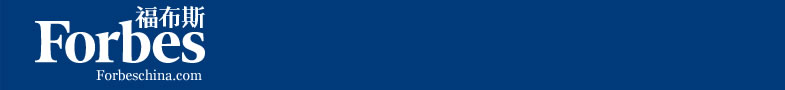
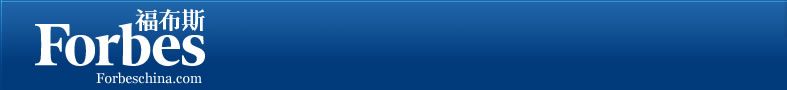
robbin

diff --git a/css/index.css b/css/index.css
@@ -1,8 +1,9 @@
 body {font-size:12px;  font-family:宋体; font-size:12px; color:#000;  margin:0 auto; padding:0;}
 
 #ibody{width:1000px; margin:0 auto;}
-#banner{width:778px; height:90px; float:left; display:inline;}
-#top_login{width:215px; height:187px; background:url('/images/index/top_right_bg.jpg') repeat-x; float:right; display:inline;}
+#banner{width:780px; height:92px; border:1px solid #cccccc; margin-top:25px; float:left; display:inline;}
+#banner img{width:778px; height:90px; margin:1px;}
+#top_login{width:215px; height:187px; margin-top:25px; background:url('/images/index/top_right_bg.jpg') repeat-x; float:right; display:inline;}
 #top_login .login_title{width:213px; height:22px; margin-top:1px; margin-left:1px; line-height:22px; background:url('/images/index/top_login_bg.jpg') repeat-x; float:left; display:inline;}
 #top_login .login_title a{margin-left:10px; color:#ffffff; text-decoration:none;}
 #top_login #jieshao_title{width:213px; height:22px; margin-left:1px; background:url('/images/index/t_r_login_bg.gif') no-repeat; float:left; display:inline;}
@@ -18,7 +19,7 @@ body {font-size:12px;  font-family:宋体; font-size:12px; color:#000;  margin:0
 #top_login #ccenter #context #content a{color:#666666; text-decoration:none;}
 #top_login #ccenter #context #ck{width:122px; height:23px; margin-top:2px; float:left; display:inline;}
 #top_login #ccenter #context #ck button{width:122px; height:23px; background:url('/images/index/btn_ck.jpg') no-repeat; cursor:pointer; text-align:center; border:0px;}
-#itop{width:785px; height:90px; margin-top:7px; background:url('/images/index/top_bg.jpg') no-repeat; float:left; display:inline;}
+#itop{width:785px; height:90px; margin-top:3px; background:url('/images/index/top_bg.jpg') no-repeat; float:left; display:inline;}
 #itop .iinput{width:160px; height:16px; border:1px solid #99CCFF; margin-top:41px; float:left; display:inline;}
 #itop .search{width:53px; height:22px; margin-top:41px; border:0px; color:#ffffff; line-height:22px; background:url('/images/index/search_bg.jpg') no-repeat; float:left; display:inline;}
 #navigation{width:1000px; height:40px; margin-top:1px; background:#3366CC; float:left; display:inline;}
@@ -34,10 +35,10 @@ body {font-size:12px;  font-family:宋体; font-size:12px; color:#000;  margin:0
 #navigation .content #picshehua{width:31px; height:15px; cursor:pointer; background-image:url(/images/index/shehua.png)!important; background-image:none; filter: progid:DXImageTransform.Microsoft.AlphaImageLoader(enabled=true, sizingMethod=image, src="/images/index/shehua.png"); margin:0 auto; margin-top:11px;}
 #navigation .content #piczhuanlan{width:31px; height:15px; cursor:pointer; background-image:url(/images/index/zhuanlan.png)!important; background-image:none; filter: progid:DXImageTransform.Microsoft.AlphaImageLoader(enabled=true, sizingMethod=image, src="/images/index/zhuanlan.png"); margin:0 auto; margin-top:11px;}
 #navigation .vertical{width:2px; height:25px; margin-top:7px; background:url('/images/index/vertical.jpg'); float:left; display:inline;}
-#navigation2{width:1000px; height:35px; background:#C1E1EE; float:left; display:inline;}
-#navigation2 .content{width:690px; height:35px; line-height:35px; text-align:center; float:left; display:inline;}
+#navigation2{width:1000px; height:27px; background:#C1E1EE; float:left; display:inline;}
+#navigation2 .content{width:690px; height:27px; line-height:27px; text-align:center; float:left; display:inline;}
 #navigation2 .content a{color:#000000; text-decoration:underline;}
-#navigation #hyzq{width:205px; height:29px; margin-top:5px; margin-right:10px; line-height:29px; background:url('/images/index/hyzq.jpg') repeat-x; background-position:bottom; float:right; display:inline;}
+#navigation #hyzq{width:205px; height:29px; margin-top:5px; margin-right:10px; line-height:29px; background:#6699cc; background-position:bottom; float:right; display:inline;}
 #navigation #hyzq #zq{width:29px; height:27px; margin-left:5px; background-image:url(/images/index/hyzq.png)!important; background-image:none; filter: progid:DXImageTransform.Microsoft.AlphaImageLoader(enabled=true, sizingMethod=image, src="/images/index/hyzq.png"); float:left; display:inline;}
 #navigation #hyzq #zqhy{width:52px; height:12px; margin-top:12px; margin-left:5px; cursor:pointer; background-image:url(/images/index/hyzq_a.png)!important; background-image:none; filter: progid:DXImageTransform.Microsoft.AlphaImageLoader(enabled=true, sizingMethod=image, src="/images/index/hyzq_a.png"); float:left; display:inline;}
 #navigation #hyzq #zs{width:36px; height:28px; margin-left:5px; background-image:url(/images/index/zzzs.png)!important; background-image:none; filter: progid:DXImageTransform.Microsoft.AlphaImageLoader(enabled=true, sizingMethod=image, src="/images/index/zzzs.png"); float:left; display:inline;}
@@ -48,17 +49,17 @@ body {font-size:12px;  font-family:宋体; font-size:12px; color:#000;  margin:0
 #t_l_t_t_l{float:left; display:inline;}
 #t_l_t_t_l img{margin:0px;}
 #t_l_t_t_r{width:361px; height:200px; margin-top:1px; float:right; display:inline;}
-#t_l_t_t_r #title{width:351px; height:24px; margin-top:20px; line-height:24px; font-family:黑体; overflow:hidden; float:left; display:inline;}
-#t_l_t_t_r #title a{color:#003399; font-weight:bold; font-size:20px; text-decoration:underline;}
-#t_l_t_t_r #content{width:351px; height:40px; margin-top:10px; margin-bottom:20px; line-height:20px; overflow:hidden; float:left; display:inline;}
-#t_l_t_t_r #content a{color:#000000; text-decoration:none;}
-#t_l_t_t_r .cl{width:291px; height:20px; line-height:20px; overflow:hidden; float:left; display:inline;}
+#t_l_t_t_r #title{width:351px; height:28px; margin-top:20px; line-height:28px; font-family:黑体; overflow:hidden; float:left; display:inline;}
+#t_l_t_t_r #title a{color:#003399; font-weight:bold; font-size:24px; text-decoration:underline;}
+#t_l_t_t_r #content{width:351px; height:40px; margin-top:10px; margin-bottom:10px; line-height:20px; overflow:hidden; float:left; display:inline;}
+#t_l_t_t_r #content a{color:#000000; font-size:14px; text-decoration:none;}
+#t_l_t_t_r .cl{width:291px; height:18px; line-height:18px; overflow:hidden; float:left; display:inline;}
 #t_l_t_t_r .cl a{color:#003399; text-decoration:none;}
 #t_l_t_t_r #more{width:60px; height:20px; float:right; display:inline;}
 #t_l_t_t_r #more a{color:#003399;}
-#t_l_t_t_r #btn{width:351px; height:14px; margin-top:5px; margin-right:10px; text-align:right; float:right; display:inline;}
-#t_l_t_l{width:288px;; float:left; display:inline;}
-#t_l_t_l #title{width:270px;; height:20px; margin-top:5px; margin-left:18px; line-height:20px; float:left; display:inline;}
+#t_l_t_t_r #btn{width:351px; height:14px; margin-top:10px; margin-right:10px; text-align:right; float:right; display:inline;}
+#t_l_t_l{width:288px; float:left; display:inline;}
+#t_l_t_l #title{width:270px;; height:20px; margin-top:10px; margin-left:18px; line-height:20px; float:left; display:inline;}
 #t_l_t_l #title a{color:#003399; font-size:14px; font-weight:bold; text-decoration:none;}
 #t_l_t_l a{color:#2555a7; text-decoration:none;}
 #t_l_t_l #content1{width:270px; height:16px; margin-top:10px; margin-left:16px; line-height:16px; overflow:hidden; float:left; display:inline;}
@@ -66,11 +67,11 @@ body {font-size:12px;  font-family:宋体; font-size:12px; color:#000;  margin:0
 #t_l_t_l #content3{width:210px; height:16px; margin-top:10px; margin-left:16px; line-height:16px; overflow:hidden; float:left; display:inline;}
 #t_l_t_l #coffee{width:50px; height:34px; background-image:url(/images/index/coffee.png)!important; background-image:none; filter: progid:DXImageTransform.Microsoft.AlphaImageLoader(enabled=true, sizingMethod=image, src="/images/index/coffee.png"); float:right; display:inline;}
 #t_l_t_r{width:351px; float:right; display:inline;}
-#t_l_t_r #left{width:5px; height:99px; margin-left:15px; float:left; display:inline;}
+#t_l_t_r #left{width:5px; height:99px; margin-left:10px; float:left; display:inline;}
 #t_l_t_r #left img{margin-top:45px;}
 #t_l_t_r #right{width:5px; height:99px; margin-right:15px; float:right; display:inline;}
 #t_l_t_r #right img{margin-top:45px;}
-#t_l_t_r .content{width:74px; height:99px; margin-top:10px; margin-left:15px; margin-right:10px; line-height:16px; float:left; display:inline;}
+#t_l_t_r .content{width:74px; height:99px; margin-top:15px; margin-left:15px; margin-right:10px; line-height:16px; float:left; display:inline;}
 #t_l_t_r .content .pic{width:72px; height:72px; border:1px solid #CCCCCC; float:left; display:inline;}
 #t_l_t_r .content .pic img{width:70px; height:70px; margin:1px;}
 #t_l_t_r .content .cl{width:74px; height:16px; margin-top:9px; line-height:16px; overflow:hidden; float:left; display:inline;}
@@ -113,7 +114,9 @@ body {font-size:12px;  font-family:宋体; font-size:12px; color:#000;  margin:0
 .c_l .piccontent .p_content a{color:#666666; text-decoration:none;}
 .c_l .piccontent1{width:310px; height:100px; line-height:25px; overflow:hidden; float:left; display:inline;}
 .c_l .piccontent1 a{color:#666666; text-decoration:none;}
-.c_l .content3{width:320px; margin-top:20px; margin-left:10px; float:left; display:inline;}
+.c_l .content3{width:320px; margin-top:10px;  margin-left:10px; float:left; display:inline;}
+.c_l .content3 #content3_title{width:320px; height:22px; margin-bottom:10px; line-height:22px; font-size:18px; margin-left:10px; float:left; display:inline;}
+.c_l .content3 #content3_title a{color:#003399; font-family:黑体; text-decoration:none;}
 .c_l .image{width:150px; height:130px; float:left; display:inline;}
 .c_l .image img{width:150px; height:130px;}
 .c_l .image_content{width:135px; height:130px; margin-left:5px; line-height:20px; float:left; display:inline;}

diff --git a/index.php b/index.php
@@ -145,7 +145,7 @@
 					<div class=p_content><a href="">这位明星基金经理将面对私人投资者推出一个迄今规的投资信托，希望募资6.3亿...</a></div>
 				</div>
 				<?php for($i=0;$i<3;$i++){ ?>
-					<div class=cl><a href=""><img border=0 src="images/index/point.jpg">　创业投资中国经济的泡沫有多大？</a></div>
+					<div class=cl><a href=""><img border=0 src="images/index/point1.jpg">　创业投资中国经济的泡沫有多大？</a></div>
 				<?php } ?>
 			</div>
 			<div class=dash></div>
@@ -161,7 +161,7 @@
 					<div class=p_content><a href="">这位明星基金经理将面对私人投资者推出一个迄今规的投资信托，希望募资6.3亿...</a></div>
 				</div>
 				<?php for($i=0;$i<4;$i++){ ?>
-					<div class=cl><img border=0 src="images/index/point.jpg">　<a href="">创业投资中国经济的泡沫有多大？</a></div>
+					<div class=cl><img border=0 src="images/index/point1.jpg">　<a href="">创业投资中国经济的泡沫有多大？</a></div>
 				<?php } ?>	
 			</div>
 			<div class=dash></div>
@@ -177,7 +177,7 @@
 					<div class=p_content><a href="">这位明星基金经理将面对私人投资者推出一个迄今规的投资信托，希望募资6.3亿...</a></div>
 				</div>
 				<?php for($i=0;$i<4;$i++){ ?>
-					<div class=cl><img border=0 src="images/index/point.jpg">　<a href="">创业投资中国经济的泡沫有多大？</a></div>
+					<div class=cl><img border=0 src="images/index/point1.jpg">　<a href="">创业投资中国经济的泡沫有多大？</a></div>
 				<?php } ?>	
 			</div>
 			<div class=dash></div>
@@ -227,11 +227,12 @@
 				<div class=more><a href="">MORE <span style="color:#0099FF">+</span></a></div>	
 			</div>
 			<div class=content3>
+				<div id=content3_title><a href="">中国本土私人股本基金挑战</a></div>
 				<div class=piccontent1>
 					<a class=pic href=""><img border=0 src="images/index/two.jpg"></a><a href="">直到资集团仍把持着中国约80%的私人股本市场，但如仍把持着把持着把持着把持中国约80%的私人股本市场，但如今中国已涌现出国已涌现出国已涌现出众多团...</a>
 				</div>
-				<?php for($i=0;$i<4;$i++){ ?>
-					<div class=cl><img border=0 src="images/index/point.jpg">　<a href="">创业投资中国经济的泡沫有多大？</a></div>
+				<?php for($i=0;$i<5;$i++){ ?>
+					<div class=cl><img border=0 src="images/index/point1.jpg">　<a href="">创业投资中国经济的泡沫有多大？</a></div>
 				<?php } ?>
 			</div>
 			<div class=dash style="margin-top:20px;"></div>
@@ -247,11 +248,11 @@
 						<div class=image_title><a href="">2011款R8敞篷车</a></div>
 						<div class=image_context><a href="">奥迪汽车在09年的美国洛杉基国际车将他</a></div>
 					</div>
-					<div class=image_content style="margin-top:40px;">
+					<div class=image_content style="margin-top:20px;">
 						<div class=image_title><a href="">2011款R8敞篷车</a></div>
 						<div class=image_context><a href="">奥迪汽车在09年的美国洛杉基国际车将他</a></div>
 					</div>
-					<div class=image style="margin-top:40px; margin-left:5px;"><a href=""><img border=0 src="images/index/car.jpg"></a></div>
+					<div class=image style="margin-top:20px; margin-left:5px;"><a href=""><img border=0 src="images/index/car.jpg"></a></div>
 			</div>
 		</div>
 		<div id=c_r>
